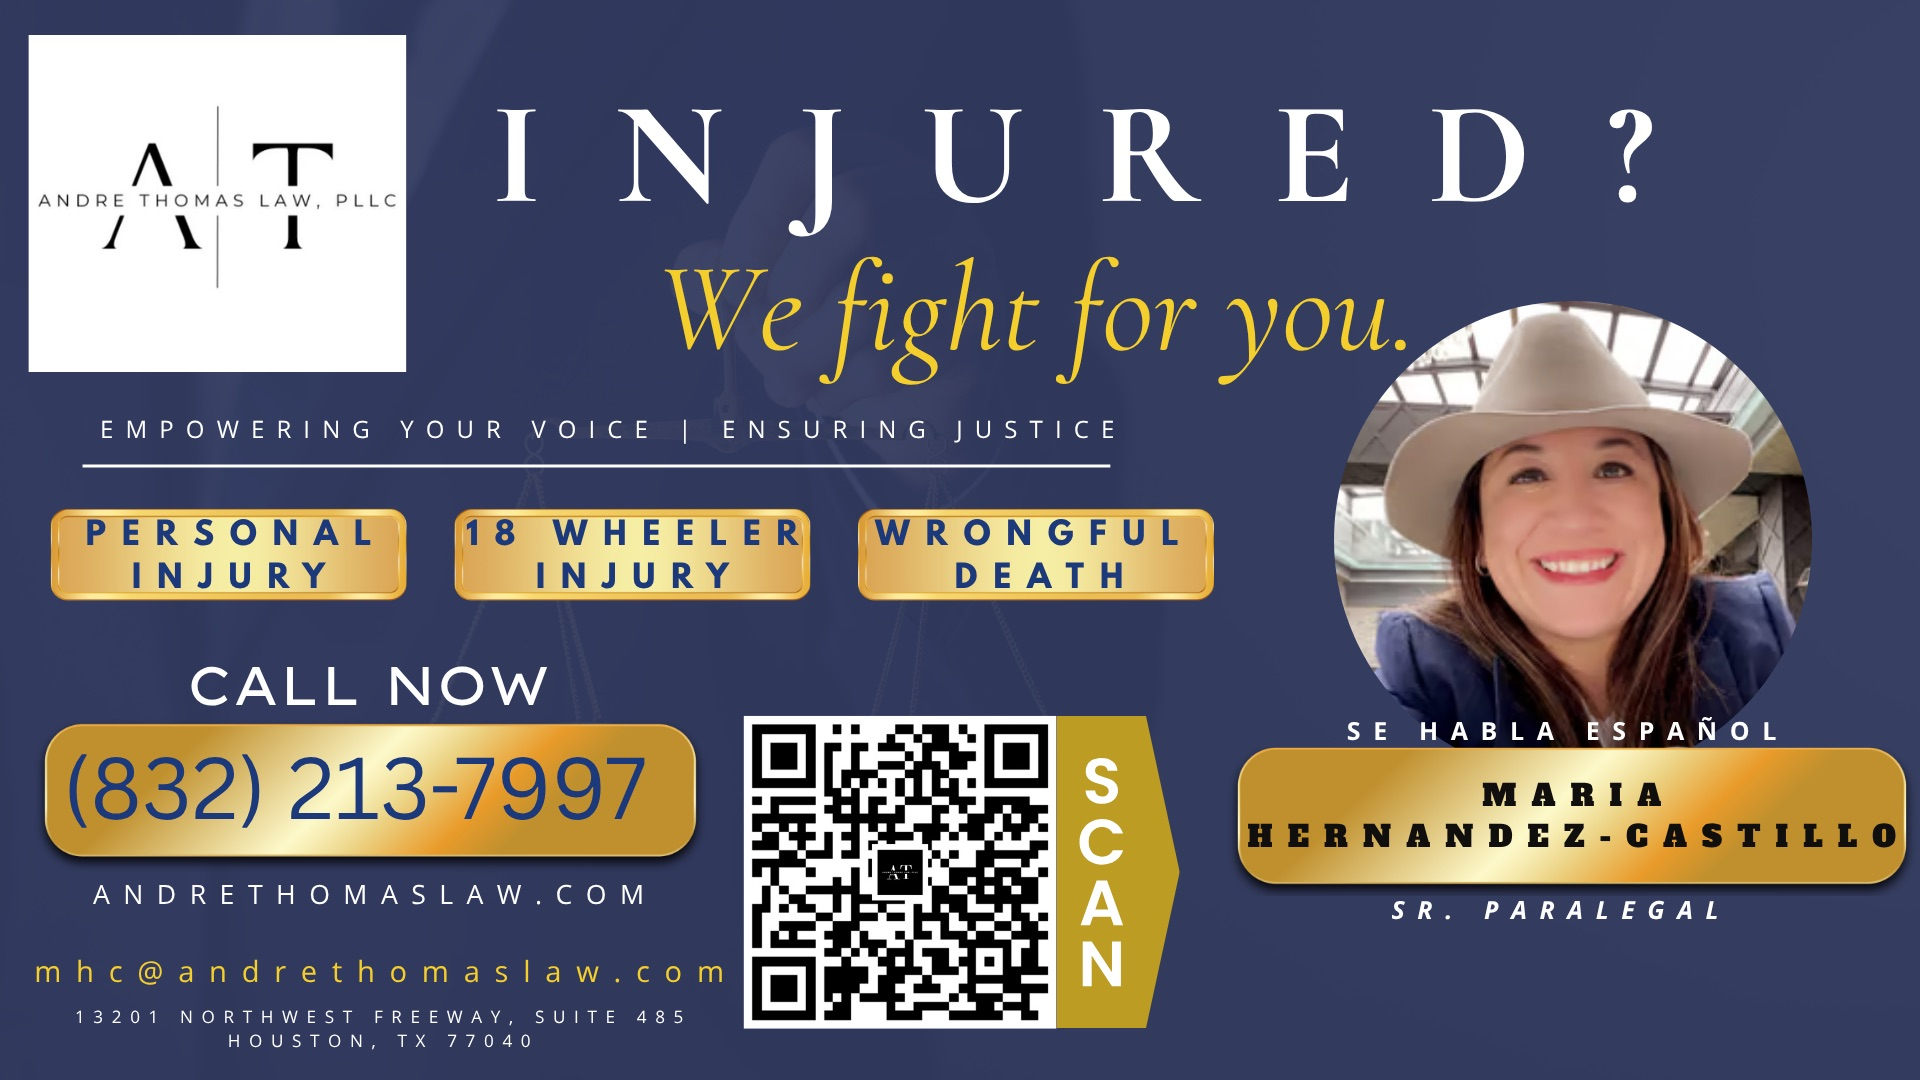
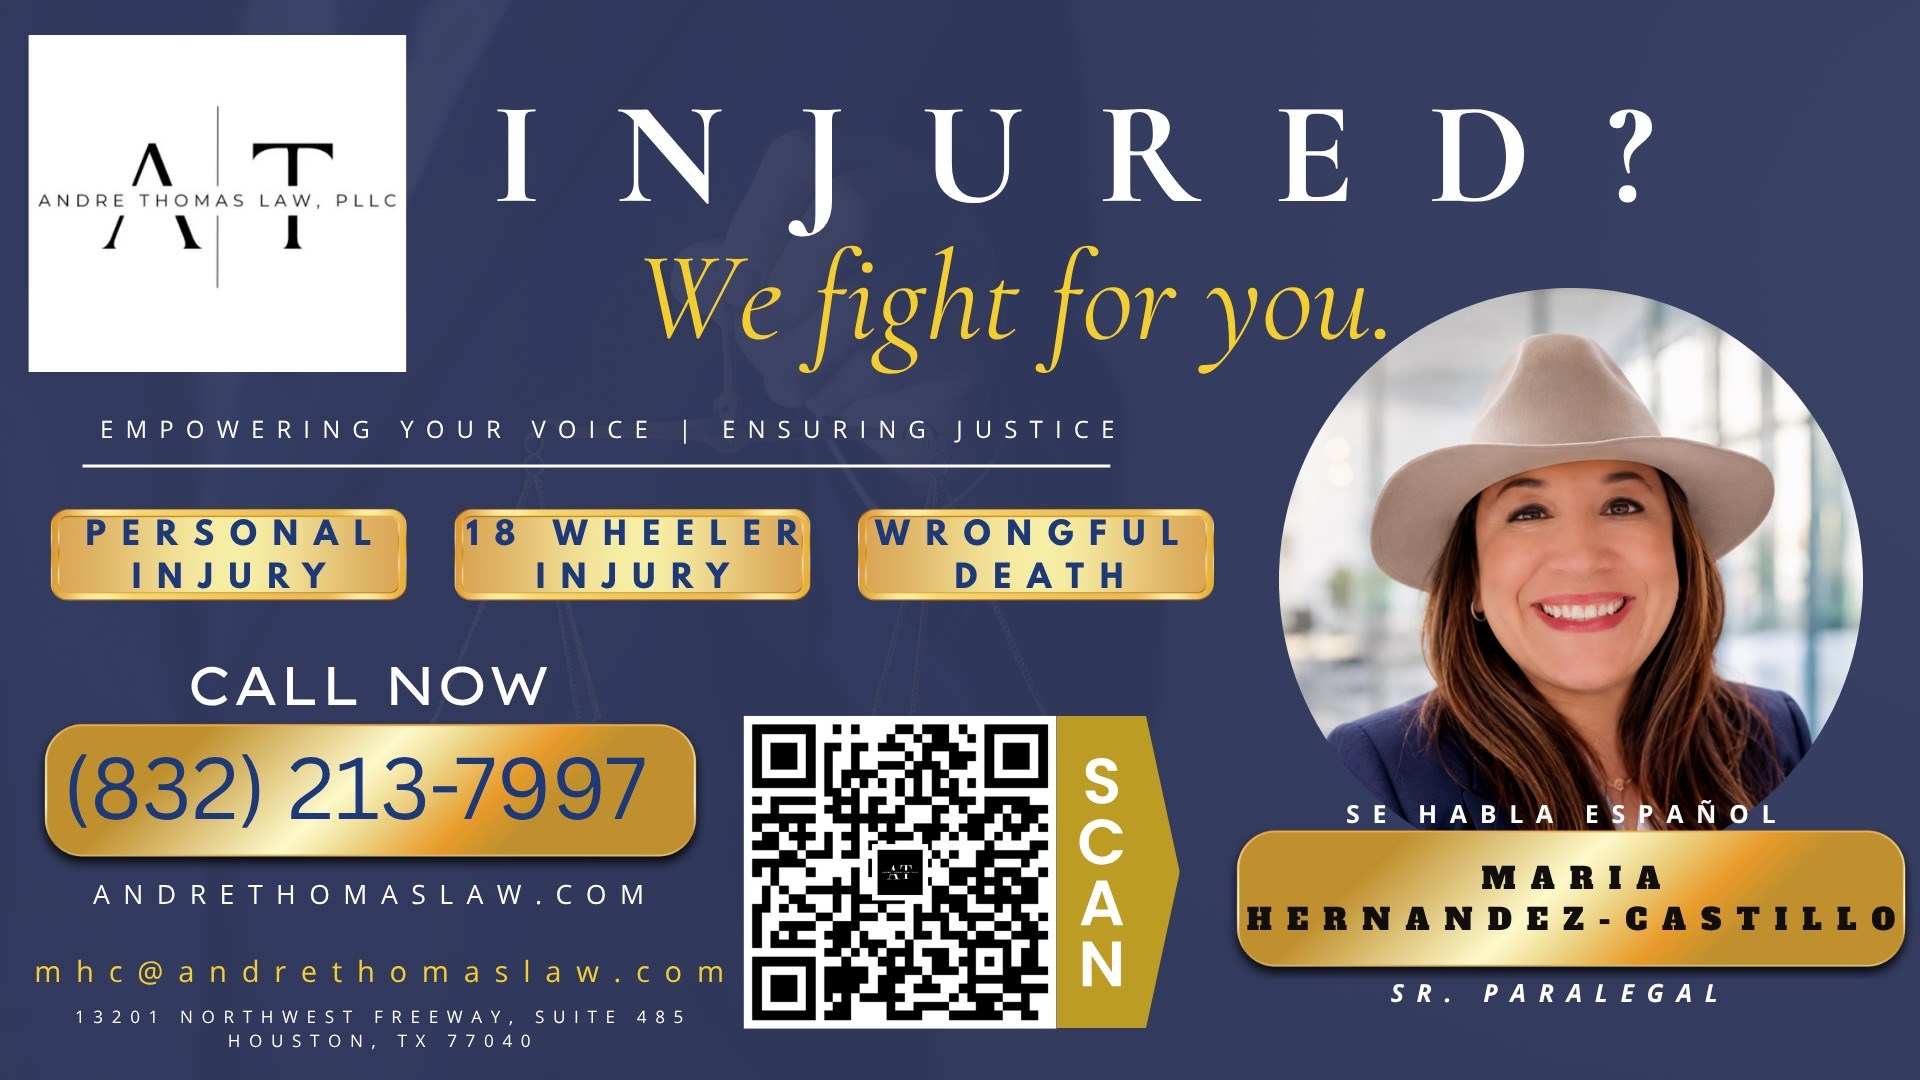
Update Andre Thomas Law and Advertise Here ads, add Donna Washington
- Andre Thomas Law: professional headshot for Maria Hernandez-Castillo
- Advertise Here (slots): "average monthly visitors" -> "monthly impressions"
- Advertise Here (reading): "10,000+ diners" -> "10,000+ impressions"
- New advertiser Donna Washington at slot 90

Claude-Session: https://claude.ai/code/session_01YQXwewJgG8HdRnknkxEBan

Changed region(s): [[0.3125, 0.2139, 1.0, 0.9472]]

diff --git a/README.md b/README.md
@@ -96,6 +96,7 @@ Current TV 1 order:
 60-gin-jack.jpg
 70-jordyn.jpg
 80-advertise-here-reading.jpg
+90-donna-washington.jpg
 ```
 
 **To put a new ad between two existing ones**, pick a number in the gap. To go between `20-` and `30-`, name it `25-new-advertiser.jpg`. Nothing else changes.
@@ -159,6 +160,7 @@ public/
       60-gin-jack.jpg
       70-jordyn.jpg
       80-advertise-here-reading.jpg
+      90-donna-washington.jpg
     tv2/          ← ads for TV 2
       10-advertise-here.jpg
 ```
